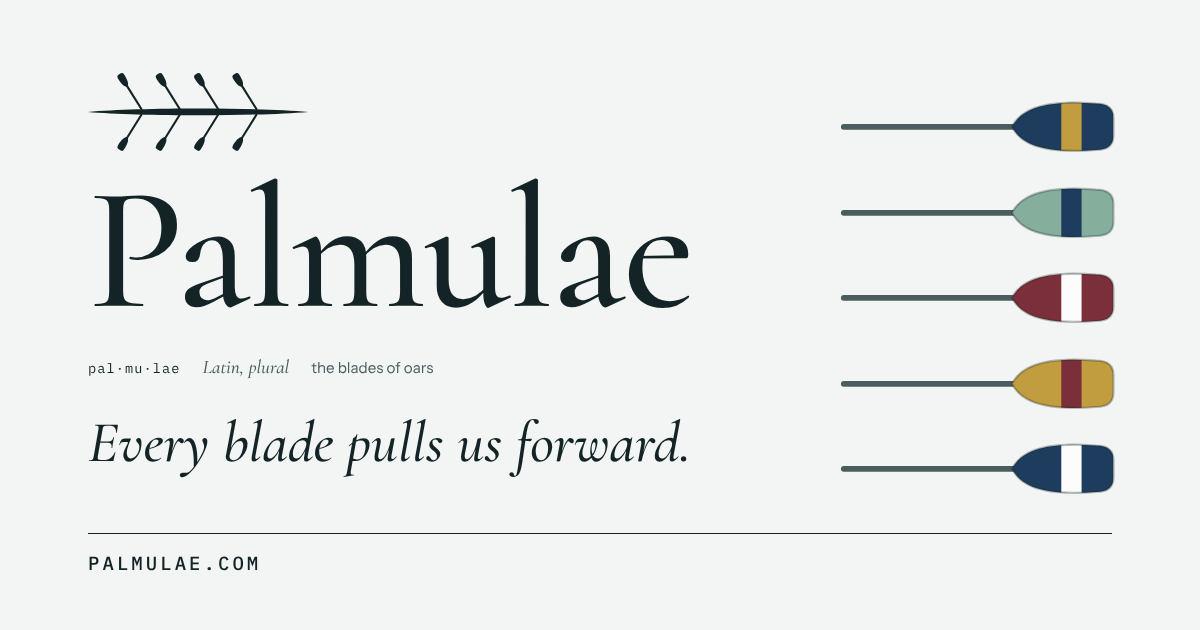
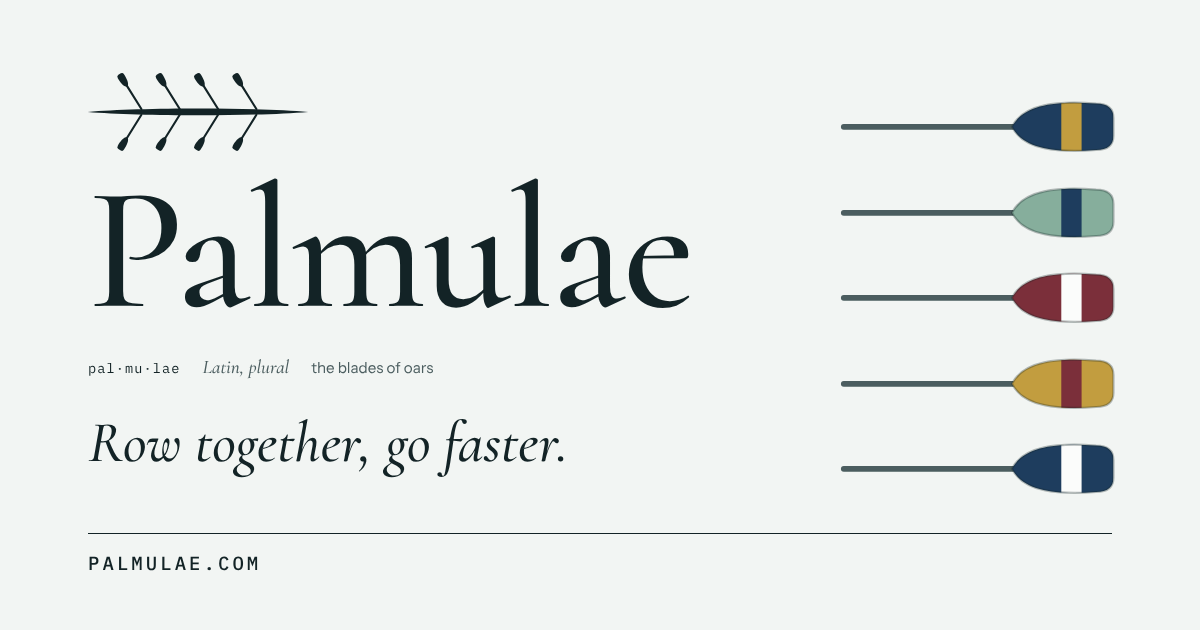
Use the slogan "Row together, go faster."
The line under it now says each new business adds another oar to the
boat, so the two don't repeat each other. The link-preview picture is
redrawn with the new slogan.

Claude-Session: https://claude.ai/code/session_01GXu44i44AT8i2zcdL7dDuK

Changed region(s): [[0.0617, 0.6635, 0.5858, 0.754]]

diff --git a/docs/index.html b/docs/index.html
@@ -4,18 +4,18 @@
 <meta charset="utf-8">
 <meta name="viewport" content="width=device-width, initial-scale=1, viewport-fit=cover">
 <title>Palmulae</title>
-<meta name="description" content="Palmulae is a home for new apps and businesses, all rowing in the same direction.">
+<meta name="description" content="Palmulae is a home for new apps and businesses, all pulling in the same direction.">
 <meta name="robots" content="index, follow">
 <link rel="canonical" href="https://palmulae.com/">
 <meta property="og:type" content="website">
 <meta property="og:site_name" content="Palmulae">
 <meta property="og:title" content="Palmulae">
-<meta property="og:description" content="Palmulae is a home for new apps and businesses, all rowing in the same direction.">
+<meta property="og:description" content="Palmulae is a home for new apps and businesses, all pulling in the same direction.">
 <meta property="og:url" content="https://palmulae.com/">
 <meta property="og:image" content="https://palmulae.com/assets/og-image.png">
 <meta property="og:image:width" content="1200">
 <meta property="og:image:height" content="630">
-<meta property="og:image:alt" content="A rowing boat seen from above with every oar pulling the same way, the name Palmulae, and the line Every blade pulls us forward.">
+<meta property="og:image:alt" content="A rowing boat seen from above with every oar pulling the same way, the name Palmulae, and the line Row together, go faster.">
 <meta name="twitter:card" content="summary_large_image">
 <meta name="theme-color" content="#F2F5F3" media="(prefers-color-scheme: light)">
 <meta name="theme-color" content="#101211" media="(prefers-color-scheme: dark)">
@@ -76,8 +76,8 @@
 </svg>
   <h1 class="wordmark">Palmulae</h1>
   <p class="entry"><span class="hw">pal·mu·lae</span><span class="pos">Latin, plural</span><span class="def">the blades of oars</span></p>
-  <p class="tagline">Every blade pulls us forward.</p>
-  <p class="lede">Palmulae is a home for new apps and businesses, all rowing in the same direction. Each one we add helps the boat go faster.</p>
+  <p class="tagline">Row together, go faster.</p>
+  <p class="lede">Palmulae is a home for new apps and businesses, all pulling in the same direction. Each new one adds another oar to the boat.</p>
 </header>
 
 <section class="section" id="contact" aria-labelledby="contact-h">

diff --git a/docs/404.html b/docs/404.html
@@ -15,7 +15,7 @@
 <meta property="og:image" content="https://palmulae.com/assets/og-image.png">
 <meta property="og:image:width" content="1200">
 <meta property="og:image:height" content="630">
-<meta property="og:image:alt" content="A rowing boat seen from above with every oar pulling the same way, the name Palmulae, and the line Every blade pulls us forward.">
+<meta property="og:image:alt" content="A rowing boat seen from above with every oar pulling the same way, the name Palmulae, and the line Row together, go faster.">
 <meta name="twitter:card" content="summary_large_image">
 <meta name="theme-color" content="#F2F5F3" media="(prefers-color-scheme: light)">
 <meta name="theme-color" content="#101211" media="(prefers-color-scheme: dark)">

diff --git a/docs/privacy/index.html b/docs/privacy/index.html
@@ -15,7 +15,7 @@
 <meta property="og:image" content="https://palmulae.com/assets/og-image.png">
 <meta property="og:image:width" content="1200">
 <meta property="og:image:height" content="630">
-<meta property="og:image:alt" content="A rowing boat seen from above with every oar pulling the same way, the name Palmulae, and the line Every blade pulls us forward.">
+<meta property="og:image:alt" content="A rowing boat seen from above with every oar pulling the same way, the name Palmulae, and the line Row together, go faster.">
 <meta name="twitter:card" content="summary_large_image">
 <meta name="theme-color" content="#F2F5F3" media="(prefers-color-scheme: light)">
 <meta name="theme-color" content="#101211" media="(prefers-color-scheme: dark)">

diff --git a/docs/terms/index.html b/docs/terms/index.html
@@ -15,7 +15,7 @@
 <meta property="og:image" content="https://palmulae.com/assets/og-image.png">
 <meta property="og:image:width" content="1200">
 <meta property="og:image:height" content="630">
-<meta property="og:image:alt" content="A rowing boat seen from above with every oar pulling the same way, the name Palmulae, and the line Every blade pulls us forward.">
+<meta property="og:image:alt" content="A rowing boat seen from above with every oar pulling the same way, the name Palmulae, and the line Row together, go faster.">
 <meta name="twitter:card" content="summary_large_image">
 <meta name="theme-color" content="#F2F5F3" media="(prefers-color-scheme: light)">
 <meta name="theme-color" content="#101211" media="(prefers-color-scheme: dark)">
